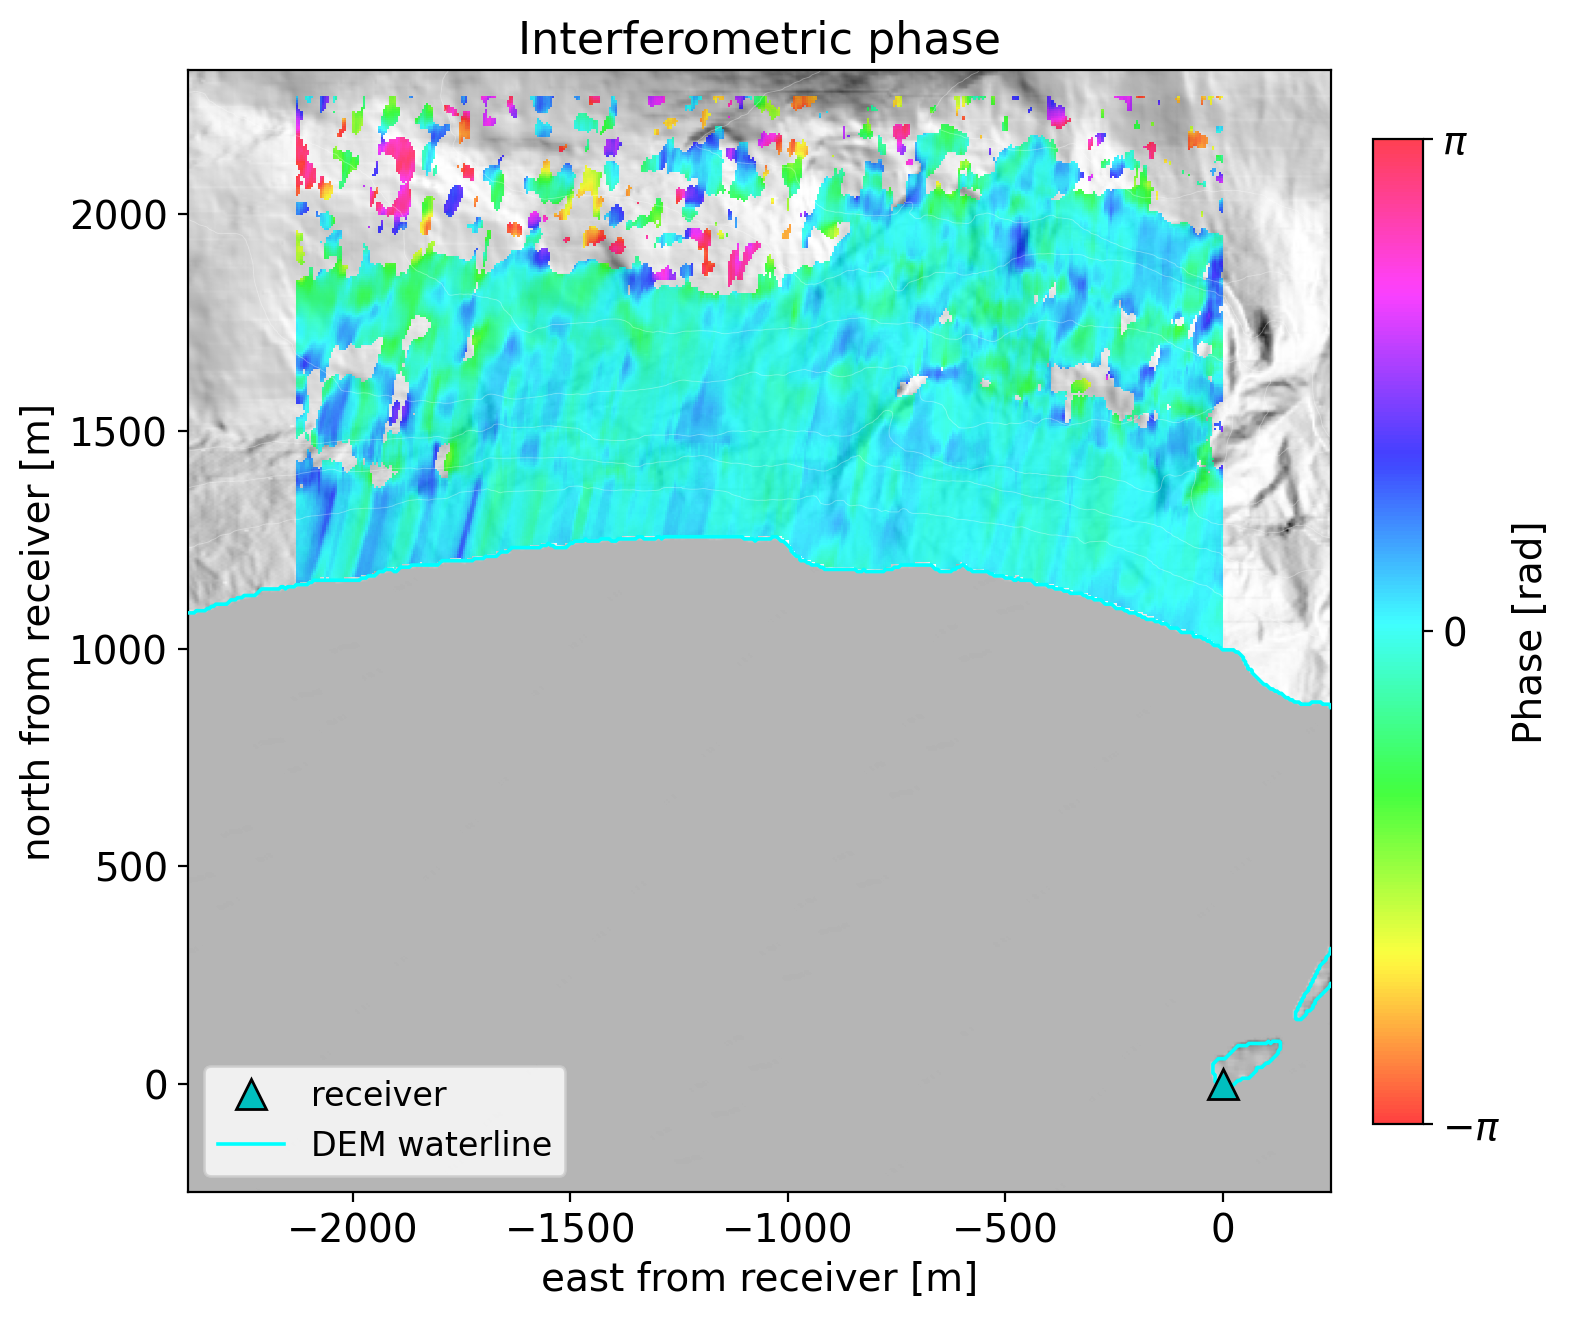
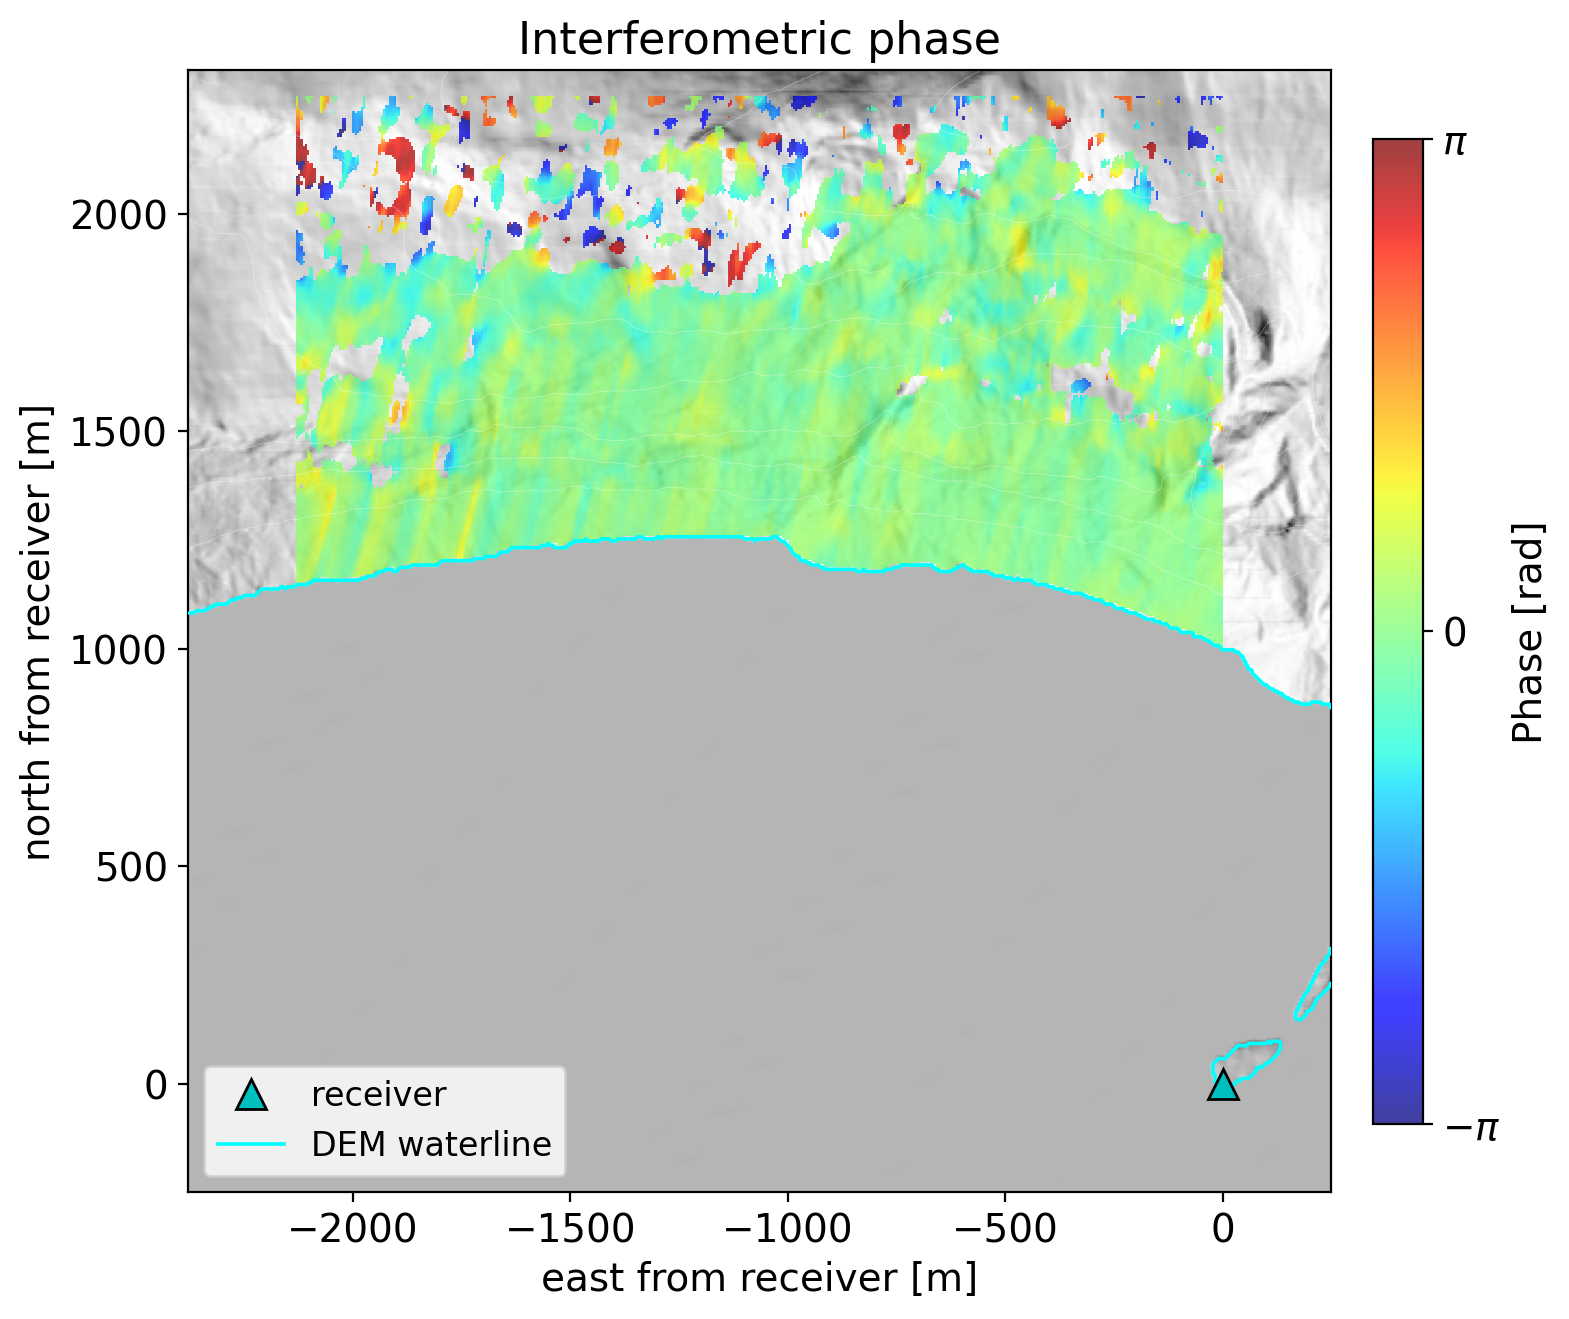
Revise research outputs: slope box, current SAR image, complement wording
- Range-Doppler map: paper's slope box with a "slope" label
- SAR image: current fixed-ROI image (same lattice as the interferograms) replaces the old D1 image
- Interferometric phase in jet, as in conventional InSAR figures
- Section 04 text: shorter captions, applications woven into the prose, rockfall detection removed,
  interferometry ends with how a low-cost ground receiver could complement existing tools
- What next: repeat-measurement goal updated now that coherence between acquisitions is shown

Changed region(s): [[0.1874, 0.0622, 0.7808, 0.4973], [0.8744, 0.0933, 0.9057, 0.8704]]

diff --git a/_includes/greenland-project.html b/_includes/greenland-project.html
@@ -79,38 +79,34 @@
 
     <div id="workflow" class="case-result-block">
       <h3>Range-Doppler observations</h3>
-      <p>I generated range-Doppler maps to examine reflections from the slope. The measured return is concentrated near 1.3 km of bistatic range, the extra path travelled by the reflected signal.</p>
-      <figure class="case-result-main">{% include project-figure.html file="rd-map.png" alt="Measured G11 range-Doppler map, signal-to-noise ratio on a blue-to-red colour scale, showing a bright return near 1.3 km bistatic range just below zero Doppler." %}<figcaption>GPS L5-Q / G11 · August 3, 2026 · 60-second segment. Signal-to-noise ratio above the noise floor; displayed bistatic range: 0 to 2.6 km.</figcaption></figure>
-      <p class="case-result-use"><strong>Potential applications.</strong> Tracking changes in the radar return could support rockfall detection. These maps are also the input for estimating how strongly the slope scatters, shown below. Both applications require further validation.</p>
+      <p>I generated range-Doppler maps to examine reflections from the slope. The return from the slope, marked by the white box, stands out clearly above the noise at about 1.3 km of bistatic range, the extra path travelled by the reflected signal.</p>
+      <figure class="case-result-main">{% include project-figure.html file="rd-map.png" alt="Measured range-Doppler map on a blue-to-red colour scale. A bright return between about 1.1 and 1.9 km of bistatic range, just below zero Doppler, is outlined by a white box labelled slope." %}<figcaption>One minute of recording, 3 August 2026. The white box marks the slope.</figcaption></figure>
+      <p>This shows that a receiver using only navigation-satellite signals can pick out the slope across the fjord. I also used these range-Doppler maps to estimate how strongly each part of the slope scatters.</p>
       <details class="case-toggle">
         <summary>NBRCS inversion: how strongly the slope scatters</summary>
         <div class="case-toggle-body">
-          <p>I invert range-Doppler maps with ArcticDEM to estimate the normalized bistatic radar cross section (NBRCS) of each part of the slope. I compare the result with the same quantity derived from the SAR image.</p>
+          <p>Combining the range-Doppler maps with ArcticDEM, I estimate the normalized bistatic radar cross section (NBRCS) of each part of the slope, which describes how strongly that patch of rock scatters the satellite signal. The maps below compare this estimate with the same quantity derived from the SAR image. Because scattering strength depends on the roughness and material of the rock surface, such maps could help characterise the surface and follow how it changes.</p>
           <div class="case-comparison">
-            <figure>{% include project-figure.html file="nbrcs-rd.png" alt="NBRCS of slope patches estimated from G11 range-Doppler maps, over ArcticDEM hillshade with the receiver and the DEM waterline, on a shared decibel colour scale." %}<figcaption><strong>From range-Doppler maps</strong><br>Inversion with ArcticDEM.</figcaption></figure>
-            <figure>{% include project-figure.html file="nbrcs-sar.png" alt="NBRCS of the same slope patches derived from the G11 SAR image, over ArcticDEM hillshade with the receiver and the DEM waterline, on the same decibel colour scale." %}<figcaption><strong>From the SAR image</strong><br>Same recording and colour scale.</figcaption></figure>
+            <figure>{% include project-figure.html file="nbrcs-rd.png" alt="NBRCS of slope patches estimated from range-Doppler maps, over ArcticDEM hillshade with the receiver and the DEM waterline, on a shared decibel colour scale." %}<figcaption><strong>From range-Doppler maps</strong><br>Blank patches have no estimate.</figcaption></figure>
+            <figure>{% include project-figure.html file="nbrcs-sar.png" alt="NBRCS of the same slope patches derived from the SAR image, over ArcticDEM hillshade with the receiver and the DEM waterline, on the same decibel colour scale." %}<figcaption><strong>From the SAR image</strong><br>Same recording and colour scale.</figcaption></figure>
           </div>
-          <p class="case-toggle-meta">G11 · August 3, 2026. Patches without a value are left blank.</p>
-          <p class="case-result-use"><strong>Potential applications.</strong> Scattering strength depends on surface roughness and material, so mapping it could help characterise the rock surface and follow how it changes. This requires further validation.</p>
         </div>
       </details>
     </div>
 
     <div class="case-result-block">
       <h3>SAR imagery</h3>
-      <p>I used a back-projection algorithm with ArcticDEM elevation to form a SAR image from a 600-second recording.</p>
-      <figure class="case-result-main">{% include project-figure.html file="sar-dem.png" alt="Measured G11 SAR intensity over ArcticDEM hillshade, showing focused returns along the opposite side of the fjord. A cyan line marks the DEM waterline." %}<figcaption>G11 SAR intensity over ArcticDEM · August 3, 2026. The triangle marks the receiver; the cyan line marks the DEM-derived waterline.</figcaption></figure>
-      <p class="case-result-use"><strong>Potential applications.</strong> The image connects the reflections to locations on the slope. Repeat acquisitions could support surface-change analysis and interferometry, shown below.</p>
+      <p>I used a back-projection algorithm with ArcticDEM elevation to form a SAR image from a 600-second recording. The image places the reflections on the slope itself and shows which parts of the slope return the signal.</p>
+      <figure class="case-result-main">{% include project-figure.html file="sar-map.png" alt="SAR intensity over ArcticDEM hillshade, shown on the part of the slope the antenna views, with the receiver triangle and the cyan DEM waterline across the fjord." %}<figcaption>SAR image, 3 August 2026, shown on the part of the slope the antenna views.</figcaption></figure>
+      <p>Linking each reflection to a location on the slope makes it possible to ask where a change happens. Repeat acquisitions could support surface-change analysis and interferometry, shown below.</p>
       <details class="case-toggle">
         <summary>Interferometry: comparing repeat SAR images</summary>
         <div class="case-toggle-body">
-          <p>I pair two SAR images taken from the same satellite geometry at different times to form an interferogram. Its phase is sensitive to small movements of the surface, and coherence shows where that phase is reliable.</p>
+          <p>I pair two SAR images taken from the same satellite geometry at different times to form an interferogram. Its phase shifts with small movements of the surface, and coherence shows where that phase can be trusted. Over much of the slope the coherence stays high between the two images, so the phase there could be used to monitor slope movement. A ground receiver can repeat this far more often than satellite radar revisits, and it maps the slope face rather than single points. Unlike active ground-based radar, it is built from low-cost parts and needs no transmitter of its own. It could therefore complement existing tools for monitoring slope movement.</p>
           <div class="case-comparison">
-            <figure>{% include project-figure.html file="ifg-phase.png" alt="Interferometric phase of the G11 pair from August 2 and 3, 2026, on a cyclic colour scale from minus pi to pi, over ArcticDEM hillshade with the receiver and the DEM waterline." %}<figcaption><strong>Interferometric phase</strong><br>Shown where coherence is at least 0.3.</figcaption></figure>
-            <figure>{% include project-figure.html file="ifg-coherence.png" alt="Coherence of the same G11 pair from 0 to 1, over ArcticDEM hillshade with the receiver and the DEM waterline; brighter colours mark more reliable phase." %}<figcaption><strong>Coherence</strong><br>Higher values mark more reliable phase.</figcaption></figure>
+            <figure>{% include project-figure.html file="ifg-phase.png" alt="Interferometric phase of a pair of SAR images from 2 and 3 August 2026, on a blue-to-red colour scale from minus pi to pi, over ArcticDEM hillshade with the receiver and the DEM waterline." %}<figcaption><strong>Interferometric phase</strong><br>Shown where coherence is adequate.</figcaption></figure>
+            <figure>{% include project-figure.html file="ifg-coherence.png" alt="Coherence of the same pair from 0 to 1, over ArcticDEM hillshade with the receiver and the DEM waterline; higher values mark more reliable phase." %}<figcaption><strong>Coherence</strong><br>Higher values mean more reliable phase.</figcaption></figure>
           </div>
-          <p class="case-toggle-meta">G11 · images from August 2 and 3, 2026.</p>
-          <p class="case-result-use"><strong>Potential applications.</strong> Interferograms from a ground receiver could complement satellite radar, which revisits the slope less often, in monitoring slope movement. This requires further validation.</p>
         </div>
       </details>
     </div>
@@ -144,7 +140,7 @@
     <div class="case-next case-next-plans">
       <div><h3>Reliable field operation</h3><p>Improve power, weather protection, and timing stability for unattended operation through the Arctic seasons.</p></div>
       <div><h3>Onboard processing and transfer</h3><p>Run the processing chain on the single-board computer and transmit processed outputs, ultimately including interferograms and validated displacement estimates.</p></div>
-      <div><h3>Repeat measurements</h3><p>Test phase coherence between acquisitions and develop the repeat-observation analysis needed to measure slope deformation.</p></div>
+      <div><h3>Repeat measurements</h3><p>Extend interferometry from a few days of acquisitions to a full year, and develop the analysis needed to turn repeated interferograms into measurements of slope deformation.</p></div>
     </div>
   </section>
 </article>

diff --git a/_sass/_portfolio-refinement.scss b/_sass/_portfolio-refinement.scss
@@ -91,7 +91,6 @@
 .case-toggle-body { padding: 1.3rem 1.15rem 1.4rem; background: #fff; border-radius: 0 0 5px 5px; }
 .case-toggle-body > p:first-child { margin-top: 0; max-width: var(--case-measure); }
 .case-toggle-body .case-comparison { margin-top: 1.2rem; }
-.case-toggle-meta { margin: 1rem 0 0; font-size: .8rem; color: #5b6770; }
 .case-toggle-body .case-result-use { margin-top: 1rem; }
 @media (max-width: 760px) {
   .case-toggle summary { padding: .9rem; }

diff --git a/CONTENT-NOTES.md b/CONTENT-NOTES.md
@@ -73,3 +73,22 @@ Figures, rendered on mull680 by `~/Jhbang_research/processing/greenland_out/pair
 - ifg-coherence.png SHA256 1154eb2fefaa3fddf934e457aaf8220b47ec24176799e8e4e54b508918ce0a0f
 
 Lightbox captions now keep the break between a figure's title and its subtitle: "Title · subtitle" instead of "Titlesubtitle".
+
+## 2026-10-17 update (research outputs v3)
+
+- Research outputs rewritten in the order of what each output is, what it shows and why it matters. Section title: "What the first recordings show." The intro names the three things the radar must do: see the slope, place each reflection on it, and detect small changes between visits. "Potential applications" became "Why it matters". The repeated "requires further validation" sentences were removed at the user's request; the wording stays modal ("could") and claims no measured deformation. Technical captions (signal, SNR, displayed range) were shortened to plain captions; the technical facts stay in the Acquisition toggle.
+- Figures rendered by `processing/greenland_out/pairs_25_gps/mk_web_figs_20261017.py` (supersedes ...20261016b.py; same output folder).
+  - rd-map.png: the paper's slope box was added, computed verbatim from mk_fig1_rdmap.py, with a "slope" label. Control: the paper script, run to /tmp/figchk, prints the same box (1.139–1.871 km, Doppler −1.00 to 0.00 Hz, peak S/N 18.29 dB).
+  - sar-map.png replaces sar-dem.png. sar-dem.png is the old D1 deliverable, which showed returns over the fjord. The new image is the current fixed-ROI G11 20260803 120011 image (`~/sdr/ifg_build_20260909/npz_roi/g11_20260803_120011_dem.npz`). It is the lattice the interferograms use, displayed as in rebuild_roi3.sh: --mask roi_mask.npz, --abs-db 136 164, inferno, alpha 0.75. The mask is DISPLAY ONLY: it shows the slope the antenna views (Z > 20 m within the 307–357° sector). The returns over the sea were not removed by processing; they are simply not drawn. The caption says the image is "shown on the part of the slope the antenna views".
+  - ifg-phase.png: the colour map changed from hsv to jet, at the user's request, to match conventional InSAR figures.
+- rd-map.png SHA256 1a835d4a62257b8a395e5022f912d1526d82e64ff143927bdca1b813fb1c5019
+- sar-map.png SHA256 3d9681b17ed4ba4f5e876c1d3dc4db71bec27f2c9f371d453b6a4615639f21d0
+- nbrcs-rd.png SHA256 0efd2b0c8c581e12297a221a58bb239bef81b8c31489e3e07ba1bfdf9ea31846
+- nbrcs-sar.png SHA256 623e1cbaf2601c54b4a29208a2bc0a9692167eb900c89b0b35aa752968ac544e
+- ifg-phase.png SHA256 b2adbd778754af9e466c0e17836e0d455d5dd14b4fd1ca59e3a191bf1254dd25
+- ifg-coherence.png SHA256 1154eb2fefaa3fddf934e457aaf8220b47ec24176799e8e4e54b508918ce0a0f
+
+2026-10-18, research outputs text revised again at the user's request: the v3 framing ("What the first recordings show.", separate "Why it matters" boxes) was dropped. The section title is back to "Two ways to examine the slope." Each block now says what the result shows and, in the same prose, what it could make possible, with no separate applications box; the v3 figures are kept. Rockfall detection was then removed, at the user's request: it needs detection within 1 to 3 s, but the slope only appears in the range-Doppler map after about 60 s of integration.
+The Problem section keeps only the problem, at the user's request; the complement statement belongs to the interferometry output. Its last sentence names the gaps from section 01 that the ground receiver addresses (revisit, points rather than the slope face, no transmitter). It does not name the summer-only limit of UAV surveys, because year-round operation has not been shown yet.
+What next / Repeat measurements: "Test phase coherence between acquisitions" was out of date once section 04 showed coherence between acquisitions. It now reads "Extend interferometry from a few days of acquisitions to a full year, and develop the analysis needed to turn repeated interferograms into measurements of slope deformation."
+Interferometry complement sentence: low cost added at the user's request. Active ground-based InSAR performs better but draws more power and costs much more; the passive receiver is built from low-cost parts and needs no transmitter of its own.
